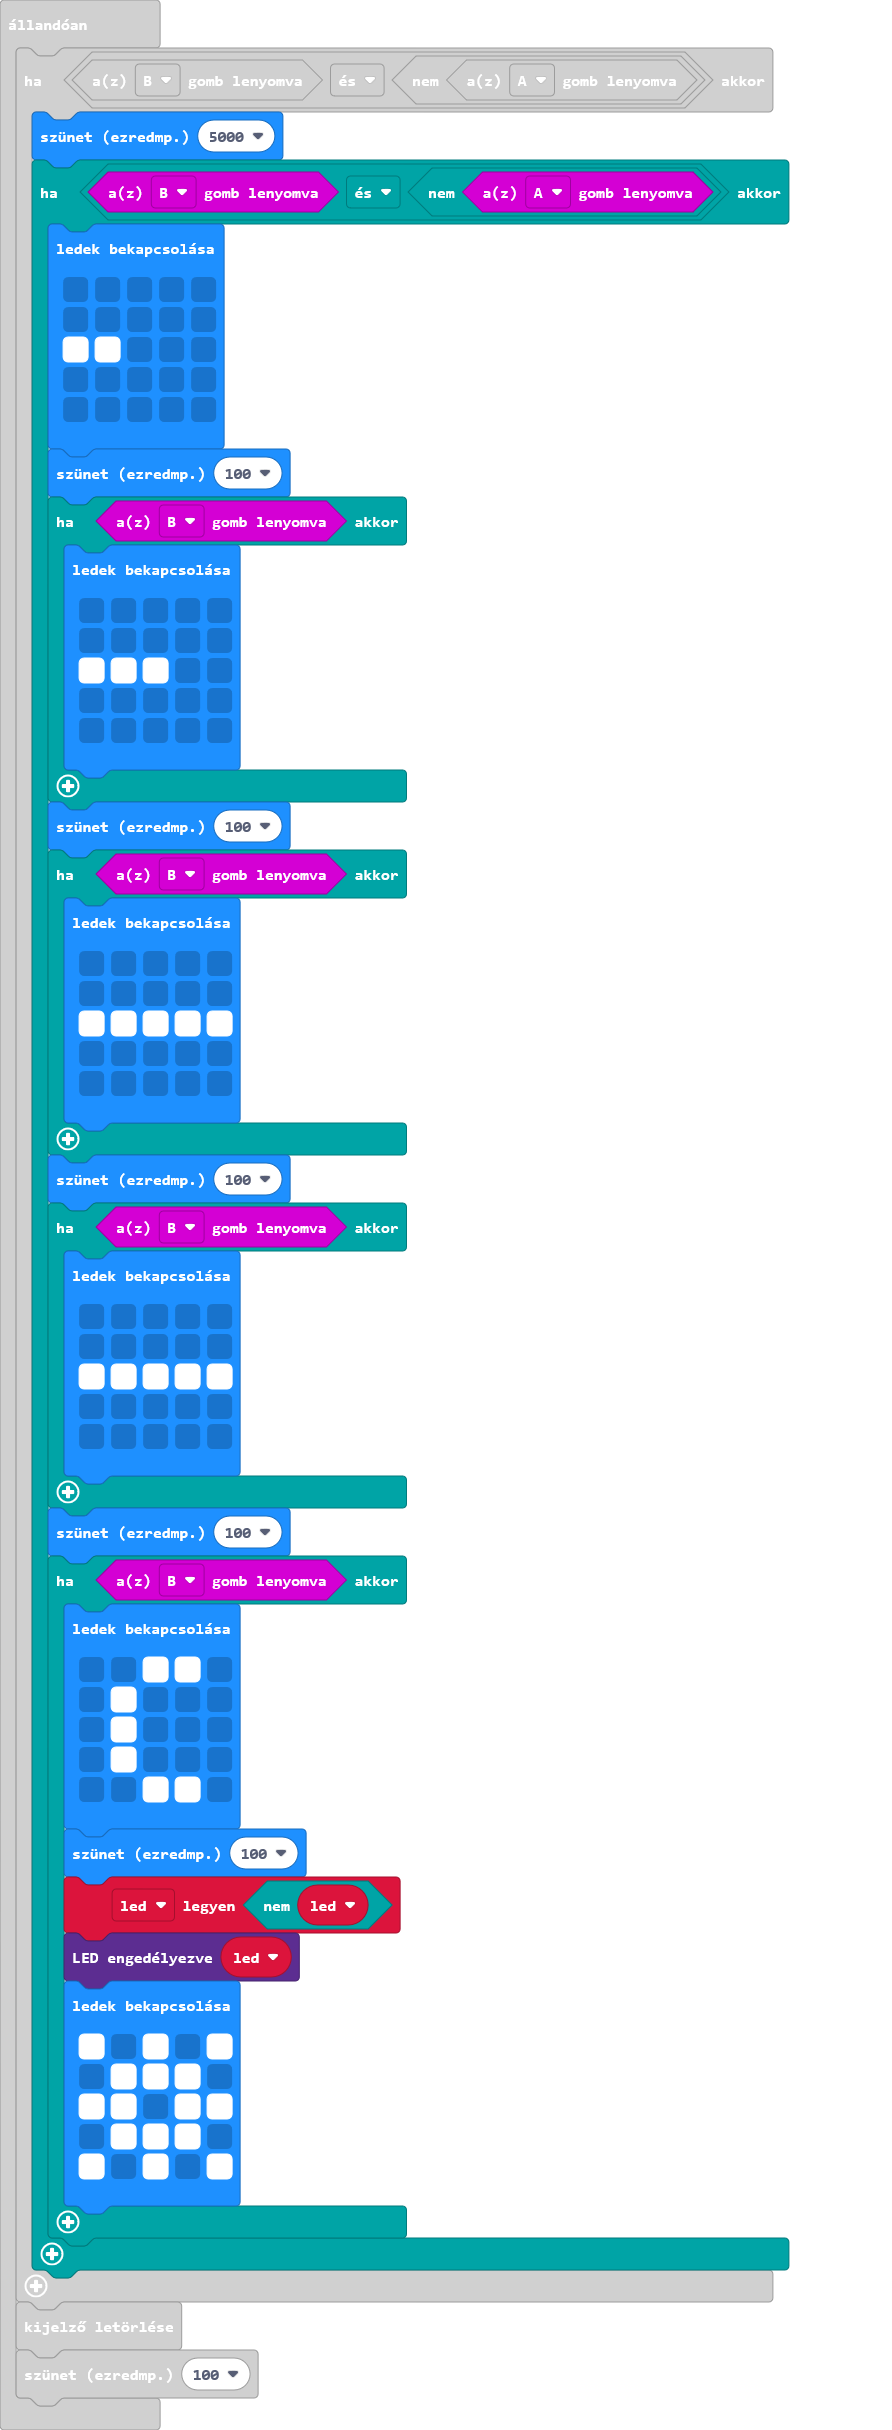
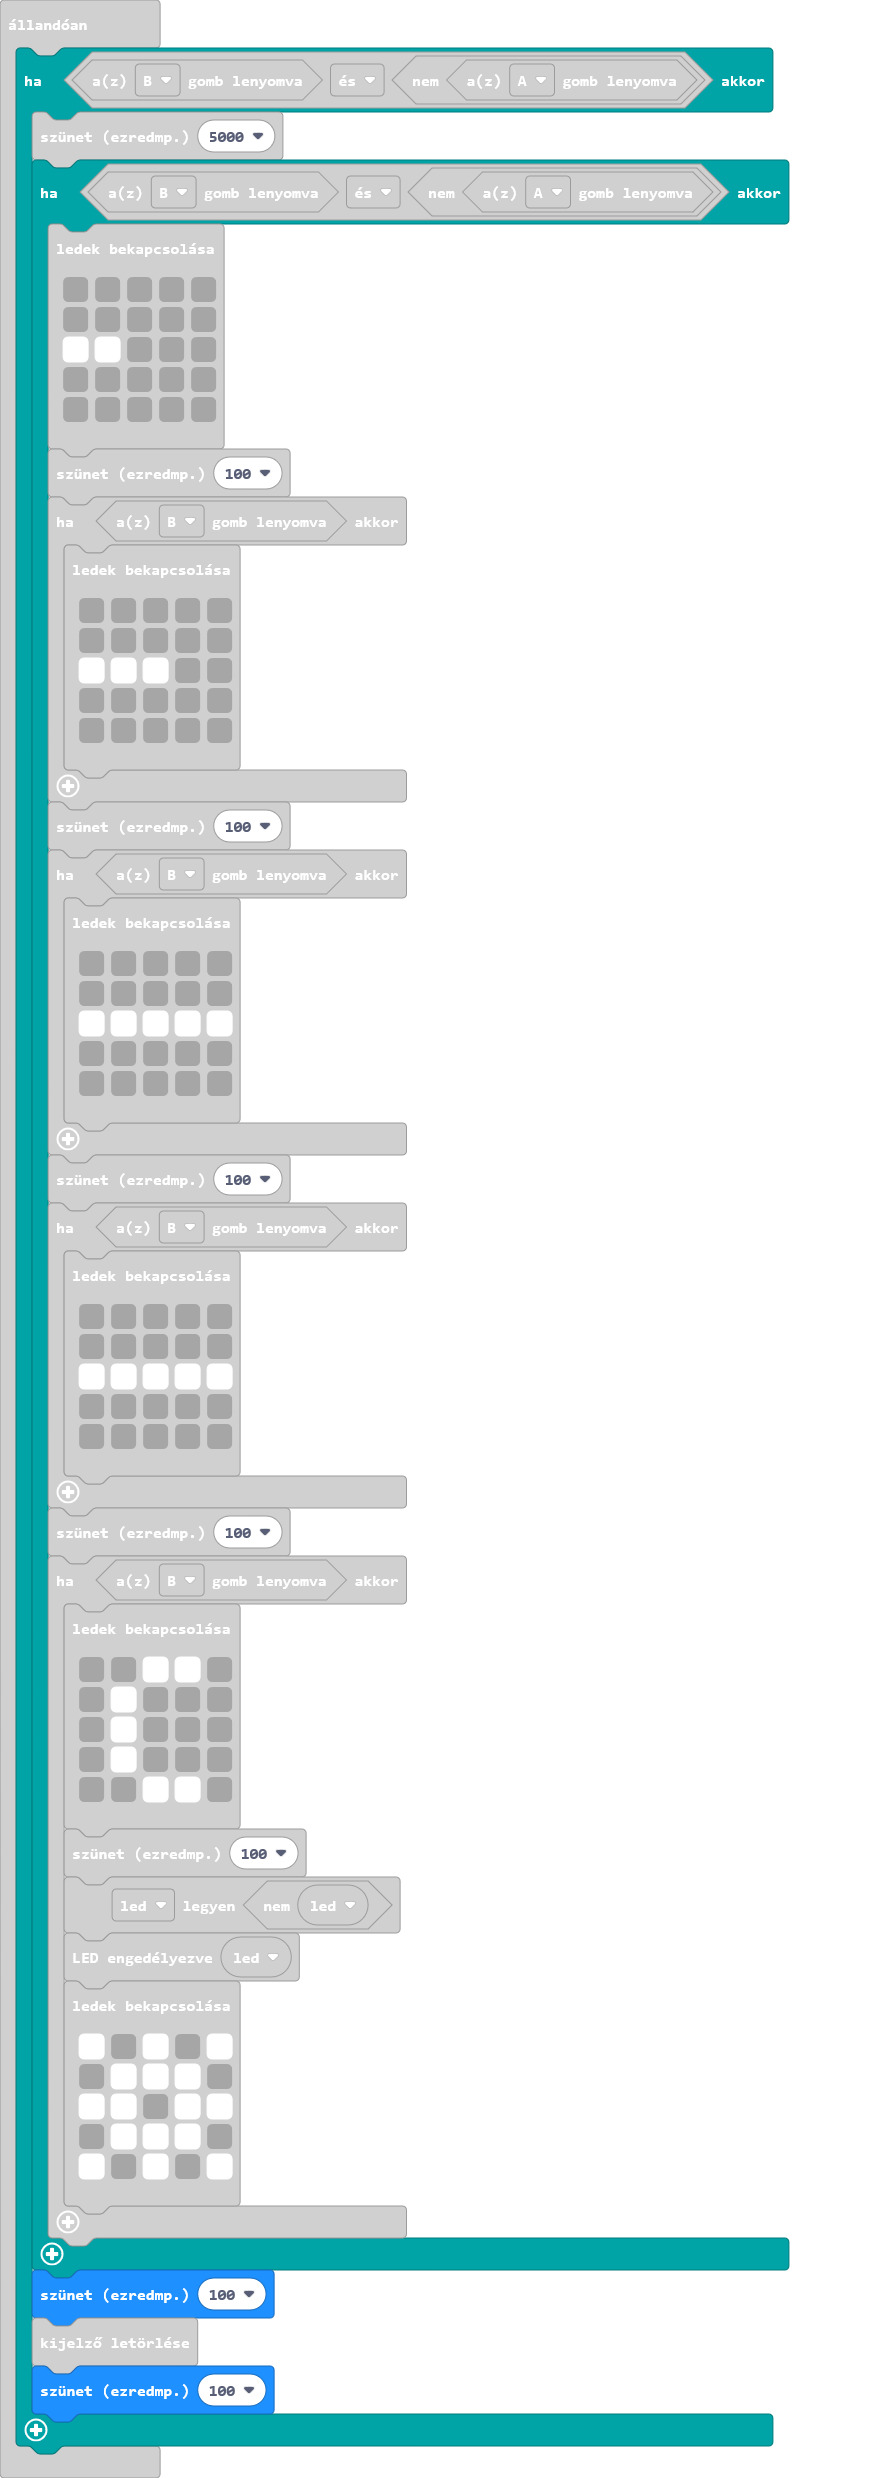
Update main.blocks, main.ts

diff --git a/main.ts b/main.ts
@@ -170,7 +170,8 @@ basic.forever(function () {
                     `)
             }
         }
+        basic.pause(100)
+        basic.clearScreen()
+        basic.pause(100)
     }
-    basic.clearScreen()
-    basic.pause(100)
 })
